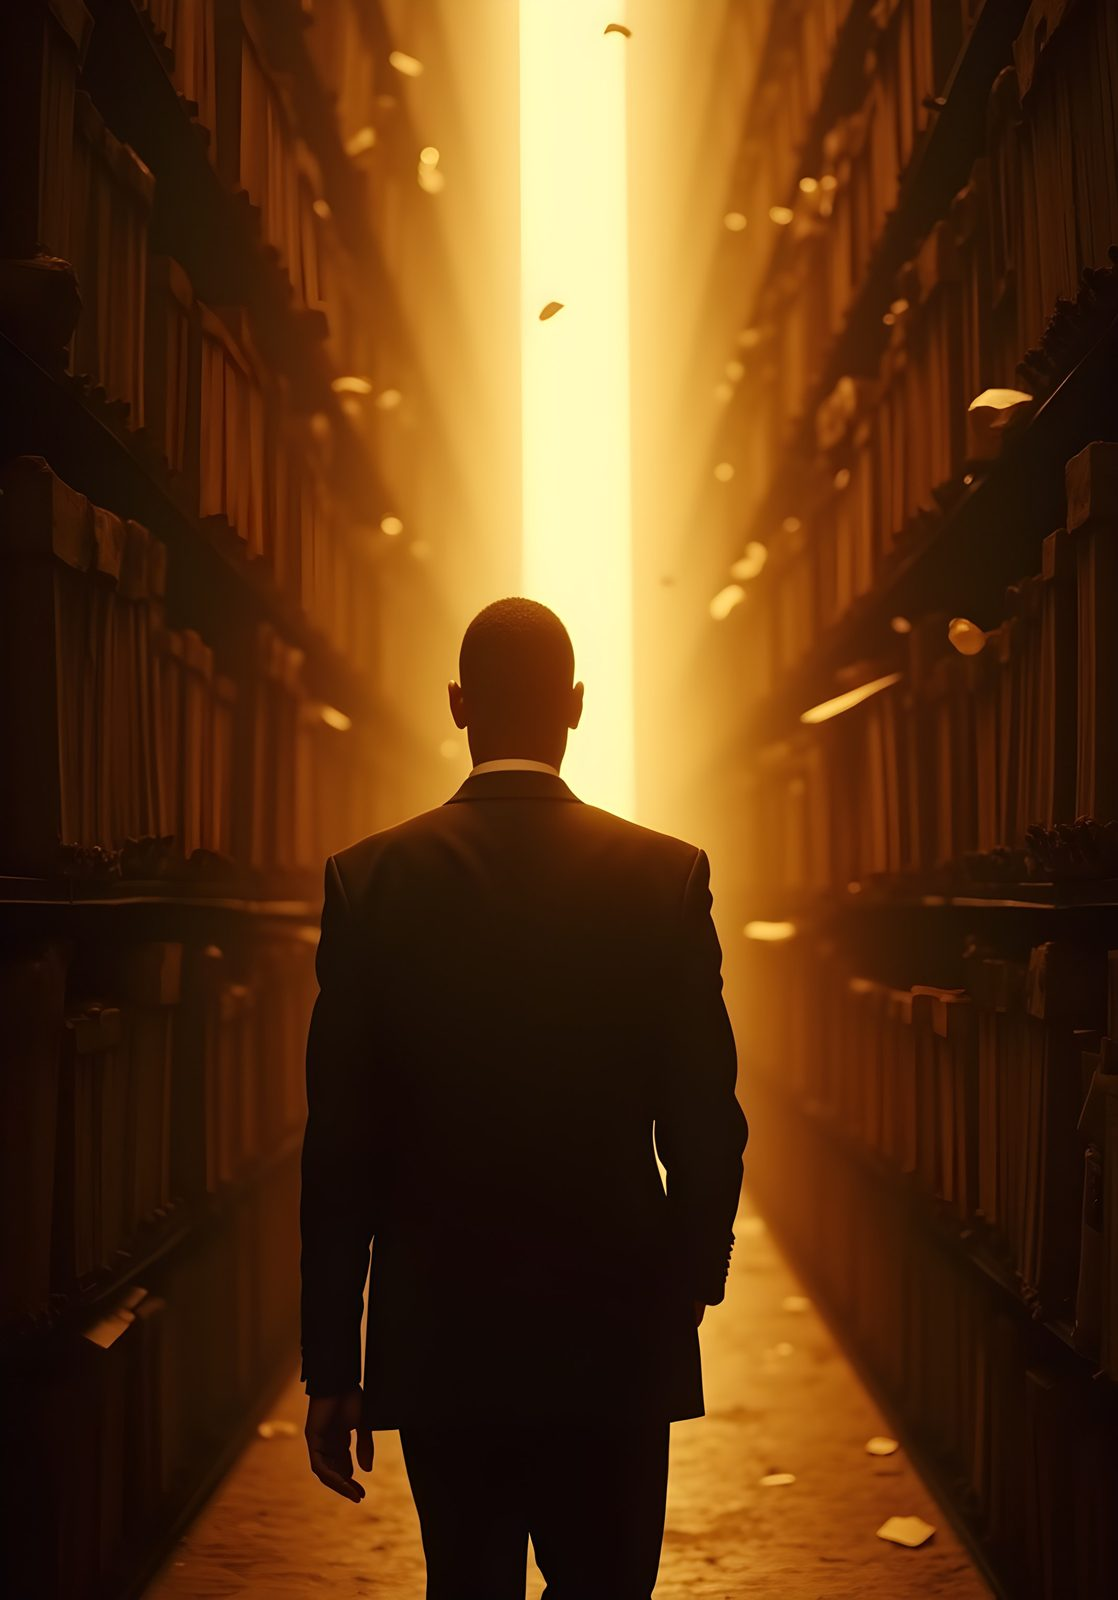
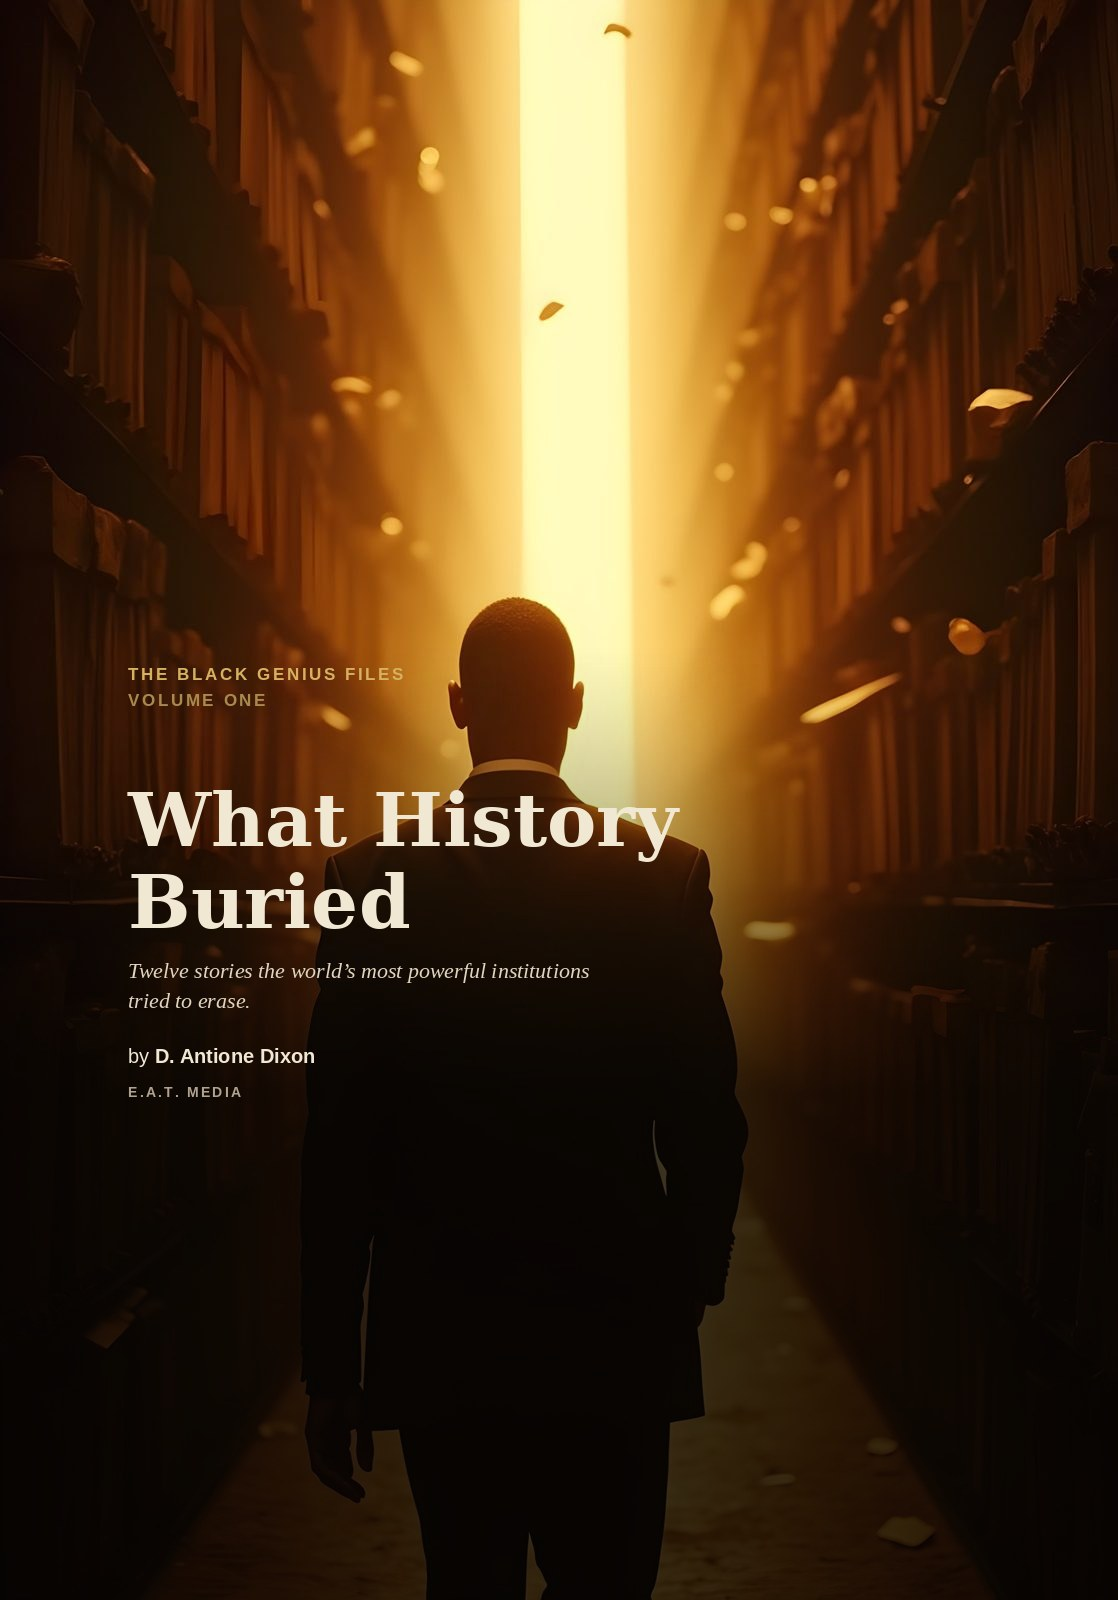
Match product-card image sizes; use the real book cover + companion art
Two fixes landing together, both surfaced by the same "images aren't
the same size" report:

1. The real Study & Trivia Companion promo (uploaded directly to main
   as StudyCompanion_Thumb_Square_1000.png) turned out to be a
   1870x2420 portrait poster despite the filename, not a square. The
   companion card's CSS forced aspect-ratio:1/1, badly cropping it.
   Renamed to StudyCompanion_Thumb_Portrait.jpg, resized and
   recompressed to a 1000px-wide progressive JPEG (327 KB -> 68 KB),
   and updated the reference in index.html and its JSON-LD Product
   entry.

2. Both product-card <img> elements now share
   aspect-ratio:3/4;object-fit:cover instead of each using its
   source's native ratio. The companion's real 0.77 ratio and the
   cover's 0.70 ratio are both close enough to 3/4 that cropping is
   under 3% per side and never touches any text -- verified in the
   browser: both images render at identical 526x701px, and the two
   cards now end at matching heights.

3. site/img/cover.jpg — the front cover used on the acquire card and
   press kit — never actually had the book's title on it; it was the
   bare source photo. Recreated with the same photo plus the real
   title/tagline/byline typography (composited from the finished
   print-cover design), matching what's actually on the published
   book. The Study Companion's embedded cover inset picks this up
   automatically since it's generated from the same file.
[…]

diff --git a/site/index.html b/site/index.html
@@ -19,7 +19,7 @@
 <meta name="twitter:description" content="Twelve case files the record tried to erase — reopened, corrected, and sourced." />
 <meta name="twitter:image" content="https://dixon8303.github.io/ImaginariumOzone/book/img/og.jpg" />
 <script type="application/ld+json">{"@context":"https://schema.org","@type":"Book","name":"What History Buried — The Black Genius Files, Vol. 1","author":{"@type":"Person","name":"D. Antione Dixon"},"publisher":{"@type":"Organization","name":"E.A.T. Media"},"inLanguage":"en","image":"https://dixon8303.github.io/ImaginariumOzone/book/img/og.jpg","isbn":"979-8185084878","url":"https://dixon8303.github.io/ImaginariumOzone/book/","description":"Twelve case files the record tried to erase — reopened, corrected, and sourced.","offers":[{"@type":"Offer","price":"14.99","priceCurrency":"USD","availability":"https://schema.org/InStock","url":"https://payhip.com/b/exquo"},{"@type":"Offer","availability":"https://schema.org/InStock","url":"https://a.co/d/0g29KbPj"}]}</script>
-<script type="application/ld+json">{"@context":"https://schema.org","@type":"Product","name":"The Study & Trivia Companion","description":"The official study guide to What History Buried — a full sheet for every chapter, three tiers of trivia, and an answer key. Built for classrooms, book clubs, and anyone auditing their own education.","brand":{"@type":"Brand","name":"The Black Genius Files"},"image":"https://dixon8303.github.io/ImaginariumOzone/book/img/StudyCompanion_Thumb_Square_1000.png","url":"https://payhip.com/b/R0jgn","offers":{"@type":"Offer","price":"7.99","priceCurrency":"USD","availability":"https://schema.org/InStock","url":"https://payhip.com/b/R0jgn"}}</script>
+<script type="application/ld+json">{"@context":"https://schema.org","@type":"Product","name":"The Study & Trivia Companion","description":"The official study guide to What History Buried — a full sheet for every chapter, three tiers of trivia, and an answer key. Built for classrooms, book clubs, and anyone auditing their own education.","brand":{"@type":"Brand","name":"The Black Genius Files"},"image":"https://dixon8303.github.io/ImaginariumOzone/book/img/StudyCompanion_Thumb_Portrait.jpg","url":"https://payhip.com/b/R0jgn","offers":{"@type":"Offer","price":"7.99","priceCurrency":"USD","availability":"https://schema.org/InStock","url":"https://payhip.com/b/R0jgn"}}</script>
 <link rel="preconnect" href="https://fonts.googleapis.com" />
 <link rel="preconnect" href="https://fonts.gstatic.com" crossorigin="crossorigin" />
 <link href="https://fonts.googleapis.com/css2?family=Playfair+Display:ital,wght@0,400;0,600;0,700;0,800;0,900;1,400;1,600;1,700;1,800&amp;family=Newsreader:ital,opsz,wght@0,6..72,300;0,6..72,400;0,6..72,500;1,6..72,300;1,6..72,400;1,6..72,500&amp;family=Archivo:wght@400;500;600;700;800&amp;display=swap" rel="stylesheet" />
@@ -449,7 +449,7 @@ input[data-atlas]::-moz-range-thumb{width:24px;height:24px;border-radius:50%;bac
          change when those become real. -->
     <div style="display:grid;grid-template-columns:repeat(auto-fit,minmax(240px,1fr));gap:20px;margin-top:clamp(40px,6vh,60px);align-items:start">
       <div data-reveal class="hv5" style="border:1px solid #442216;background:#17130d;padding:22px;display:flex;flex-direction:column;gap:16px">
-        <img src="img/cover.jpg" alt="What History Buried — front cover" style="width:100%;display:block;box-shadow:0 30px 60px -18px rgba(0,0,0,.85),0 0 60px rgba(231,178,78,.1);border:1px solid rgba(231,178,78,.18)" />
+        <img src="img/cover.jpg" alt="What History Buried — front cover" style="width:100%;aspect-ratio:3/4;object-fit:cover;display:block;box-shadow:0 30px 60px -18px rgba(0,0,0,.85),0 0 60px rgba(231,178,78,.1);border:1px solid rgba(231,178,78,.18)" />
         <div style="display:flex;flex-direction:column;gap:8px">
           <p style="margin:0;font-family:'Archivo',sans-serif;font-weight:600;letter-spacing:.28em;text-transform:uppercase;font-size:9.5px;color:#C2A24A">The Black Genius Files · Volume One</p>
           <h3 style="margin:0;font-family:'Playfair Display',serif;font-weight:800;font-size:22px;color:#f1e6cc">What History Buried</h3>
@@ -460,7 +460,7 @@ input[data-atlas]::-moz-range-thumb{width:24px;height:24px;border-radius:50%;bac
       </div>
 
       <div data-reveal="90" class="hv5" style="border:1px solid #442216;background:#17130d;padding:22px;display:flex;flex-direction:column;gap:16px">
-        <img src="img/StudyCompanion_Thumb_Square_1000.png" alt="The Study &amp; Trivia Companion — cover" style="width:100%;aspect-ratio:1/1;object-fit:cover;display:block;box-shadow:0 30px 60px -18px rgba(0,0,0,.85),0 0 60px rgba(231,178,78,.1);border:1px solid rgba(231,178,78,.18)" />
+        <img src="img/StudyCompanion_Thumb_Portrait.jpg" alt="The Study &amp; Trivia Companion — cover" style="width:100%;aspect-ratio:3/4;object-fit:cover;display:block;box-shadow:0 30px 60px -18px rgba(0,0,0,.85),0 0 60px rgba(231,178,78,.1);border:1px solid rgba(231,178,78,.18)" />
         <div style="display:flex;flex-direction:column;gap:8px">
           <p style="margin:0;font-family:'Archivo',sans-serif;font-weight:600;letter-spacing:.28em;text-transform:uppercase;font-size:9.5px;color:#C2A24A">The Black Genius Files · Volume One</p>
           <h3 style="margin:0;font-family:'Playfair Display',serif;font-weight:800;font-size:22px;color:#f1e6cc">The Study &amp; Trivia Companion</h3>

diff --git a/site/README.md b/site/README.md
@@ -17,16 +17,20 @@ No build step, no backend — ready for GitHub Pages.
 
 ## Images
 
-All of the book's chapter/cover/author art is real (uploaded and optimized).
-One placeholder remains:
+All art is real (uploaded and optimized), including `img/cover.jpg` (the
+titled front cover) and `img/StudyCompanion_Thumb_Portrait.jpg` (the
+Companion's promotional graphic — despite the "_1000.png" name used
+earlier, the real asset is a portrait poster, not a square; it was renamed
+and recompressed to JPEG to fit the mobile budget).
 
-- `img/StudyCompanion_Thumb_Square_1000.png` — a generated stand-in for the
-  Study & Trivia Companion's promotional square thumbnail. Replace it with
-  the real 1000×1000 asset, **same filename**, and it drops into the
-  `#acquire` product card with no code changes.
+Both product-card images in `#acquire` share `aspect-ratio:3/4;
+object-fit:cover` so they render at matching sizes regardless of each
+source image's native aspect ratio — keep that pairing if either image is
+swapped for a new version, so future cards line up too.
 
-Easiest path: GitHub → **Add file → Upload files** into `site/img/` on a
-branch, keep the filename, merge. Keep it ≤200 KB (the traffic arrives from
+Easiest path for new/updated art: GitHub → **Add file → Upload files** into
+`site/img/` on a branch, keep the filename, merge. Keep it ≤200 KB (the
+traffic arrives from
 Shorts and pins on mobile).
 
 ## Config
